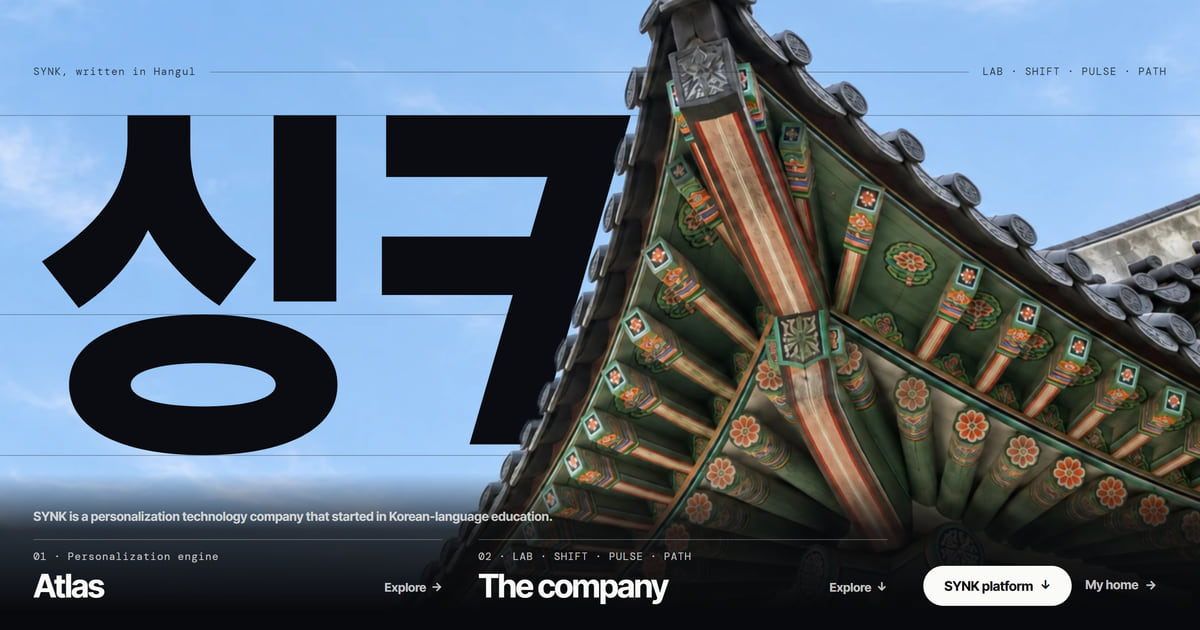
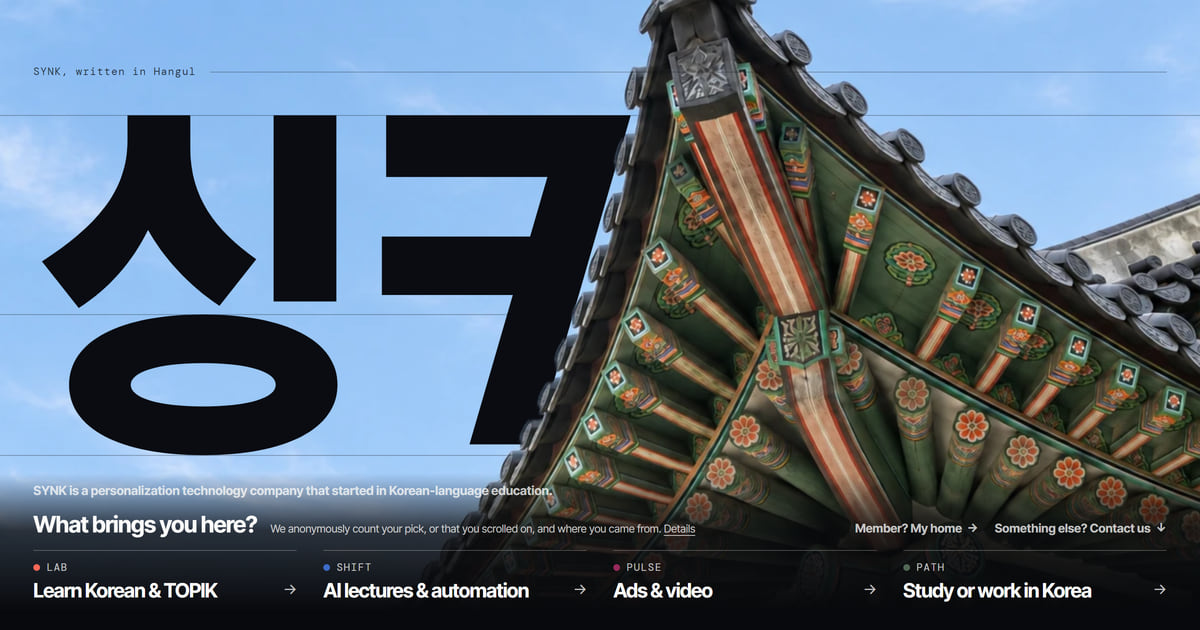
홈 첫 화면 「어떤 일로 오셨어요?」: 처마 입구 아래 두 입구 · 플랫폼 단추 자리에 질문 하나와 네 사업 칸(LAB · SHIFT · PULSE · PATH 쪽) · 작은 줄 둘, 고른 칸(또는 그냥 내려감)을 탭마다 한 번 구글 폼에 익명으로 센다(home-ask.css · home-ask.js — 홈 두 쪽만). 처리방침 기업 홈페이지 절에 방문 통계 · SNS 게시물 링크 기록(한·영), 홈 공유 그림 두 장 다시 구움. 유호님 10-30 「방문자에게 이거 왜 들어왔는지 해서 맞는 회사로 화면을 열어주는 … 통계조사도」 →

Changed region(s): [[0.0308, 0.8143, 0.9558, 0.9651], [0.0308, 0.754, 0.4625, 0.7841], [0.8017, 0.0905, 0.9867, 0.1206]]

diff --git a/privacy/index.html b/privacy/index.html
@@ -205,11 +205,13 @@
 
   <section class="doc" id="website-questions" aria-labelledby="website-privacy-title">
     <h2 class="doc-title" id="website-privacy-title">기업 홈페이지 개인정보 처리 안내</h2>
-    <p class="doc-sub">적용·확인일: 2026년 9월 11일 · 기업 소개와 공개 안내 질문창</p>
+    <p class="doc-sub">적용·확인일: 2026년 9월 11일 · 방문 통계 추가: 2026년 10월 30일 · 기업 소개와 공개 안내 질문창</p>
     <p>이 안내는 SYNK의 기업 소개 홈페이지와 공개 안내 질문창에 적용됩니다. 한국어 이름 체험, Facebook Messenger 상담, 신청서, 학생·보호자용 학습 서비스 등 별도 기능의 정보 처리까지 동일하다는 뜻은 아닙니다.</p>
     <p>공개 안내 질문창은 방문자의 브라우저 안에서 질문과 공개 자료를 대조하여 답변을 표시합니다. 질문이나 대화 내용을 SYNK의 서버 또는 외부 AI 서비스로 전송하는 기능은 없으며, 대화 내용을 쿠키나 브라우저 저장소에 저장하지 않습니다. 화면의 대화는 새로 시작하거나 페이지를 새로고침하면 사라집니다.</p>
     <p>질문창의 입력을 학생 기록에 연결하거나 상담 신청으로 접수하거나 AI 모델 학습에 사용하는 기능은 없습니다. 이름·전화번호·학생 기록·비밀번호 등 개인정보나 민감한 내용은 입력하지 말아 주세요. 이 안내가 입력한 개인정보를 자동으로 가려 준다는 뜻은 아닙니다.</p>
-    <p>기업 소개 홈페이지에는 별도의 방문자 분석 스크립트나 광고 추적 기능을 설치하지 않았습니다. 다만 웹페이지와 파일을 전달하는 접속 정보의 처리는 대화 내용의 저장 여부와 별개입니다. synk.im의 호스팅 제공자인 GitHub의 개인정보 관련 안내를 함께 확인해 주세요.</p>
+    <p>기업 소개 홈페이지에는 광고 회사의 추적 스크립트나 외부 방문자 분석 서비스를 설치하지 않았습니다. SYNK가 직접 세는 기록은 아래 두 가지뿐입니다. 웹페이지와 파일을 전달하는 접속 정보의 처리는 이와 별개이며, synk.im의 호스팅 제공자인 GitHub의 개인정보 관련 안내를 함께 확인해 주세요.</p>
+    <p id="visitor-stats"><strong>홈 첫 화면 방문 통계(2026년 10월 30일부터):</strong> 첫 화면의 「어떤 일로 오셨어요?」에서 칸을 고르거나, 고르지 않고 아래로 내려가면 그 탭에서 한 번만 다음 항목을 SYNK의 Google Forms 기록 양식으로 보냅니다 — 칸을 골랐는지와 고른 칸, 보고 있던 쪽의 언어, 들어온 곳의 종류(직접·검색·인스타그램 같은 분류 이름), 화면 너비로 나눈 기기 종류(휴대폰 또는 컴퓨터·태블릿), 링크에 붙은 캠페인 꼬리표(예: ?from=ig-bio), 화면 버전. Google Forms가 받은 시각을 함께 기록합니다. 보내는 항목에 이름·이메일·IP 주소·쿠키·기기 식별값·전체 주소·이전 사이트 주소는 넣지 않으며, 방문자를 서로 잇는 번호도 만들지 않습니다. 다만 브라우저가 Google Forms로 직접 보내므로, 그 연결에 따르는 접속 정보(IP 주소 등)의 처리는 <a href="https://policies.google.com/privacy">Google 개인정보 안내</a>를 따릅니다. 같은 탭에서 두 번 세지 않도록 그 탭의 저장소(sessionStorage)에 표시 하나를 두고, 탭을 닫으면 사라집니다. 방문자가 무엇을 찾는지 알아 첫 화면과 안내를 고치는 데만 쓰고, 기록은 운영 계정만 봅니다. 브라우저의 전역 개인정보 신호(Global Privacy Control)가 켜져 있으면 보내지 않습니다. 홈 주소에 ?nocount=1을 붙여(synk.im/?nocount=1) 한 번 열면 그 브라우저에서는 보내지 않고(이 설정만 기기 저장소에 남습니다), synk.im/?nocount=0으로 되돌립니다. 사람을 알아볼 수 없는 기록이라 따로 보관 기한을 두지 않으며, 통계에 더 쓰지 않게 되면 지웁니다.</p>
+    <p><strong>SNS 게시물 링크 기록:</strong> SYNK의 SNS 게시물에 붙은 링크 번호(주소의 synk_ref)로 들어온 경우에만, 그 번호와 방문·체험 시작·가입·문의가 있었는지를 SYNK 회사 서버(workspace.synk.im)로 보내 어느 게시물이 방문으로 이어졌는지 셉니다. 이름·이메일·글 내용·전체 주소는 보내지 않고, 링크 번호는 그 탭에서만 기억합니다.</p>
     <p>브라우저의 AI 도우미나 확장 프로그램을 직접 사용하는 경우에는 해당 도구의 정보 처리 기준이 별도로 적용됩니다. 답변의 복사 기능을 누르면 선택한 답변이 기기의 클립보드에 들어갑니다.</p>
     <p>이메일이나 외부 서비스 링크를 선택하면 해당 서비스로 이동합니다. 직접 보낸 이메일, Messenger 메시지 또는 별도 신청서의 내용은 홈페이지 질문창과 다른 경로에서 처리되므로 각 서비스의 안내를 확인해 주세요. LAB 상담·학습 서비스의 고지는 아래에 구분해 두었습니다.</p>
     <p>개인정보 관련 문의는 hello@synk.im으로 보내실 수 있습니다. 이용한 서비스와 문의 내용을 알려주시되 비밀번호나 인증번호는 보내지 말아 주세요. 필요한 정보의 범위는 요청 내용에 따라 달라질 수 있습니다.</p>
@@ -217,9 +219,11 @@
     <details lang="en"><summary>Company website privacy notice · English</summary>
       <p>This notice covers the SYNK company website and its public information guide. Separate services such as the Korean-name experience, Messenger consultation, application forms and student or guardian learning services have their own processing scope.</p>
       <p>The guide compares questions with public material in your browser. It has no function that sends questions or conversations to SYNK servers or external AI services, stores them in cookies or browser storage, connects them to student records, submits consultation requests or uses them to train AI models. On-screen conversations are cleared when you restart the guide or reload the page. Do not enter personal or sensitive information; the guide does not automatically redact it.</p>
-      <p>The company website has no separately installed visitor analytics or advertising trackers. Hosting access information is separate from conversation storage. See the GitHub privacy statement for hosting of synk.im. Browser AI assistants and extensions you choose to use follow their own processing terms. Using Copy places the selected answer on your device clipboard.</p>
+      <p>The company website has no advertising trackers or third-party visitor analytics. SYNK itself counts only the two things below. Hosting access information is separate; see the GitHub privacy statement for hosting of synk.im. Browser AI assistants and extensions you choose to use follow their own processing terms. Using Copy places the selected answer on your device clipboard.</p>
+      <p id="visitor-stats-en"><strong>Home page visit statistics (from 30 October 2026):</strong> when you pick an option under “What brings you here?” on the home page, or scroll past it without picking, the page sends once per tab to SYNK’s Google Forms record: whether you picked and which option, the page language, the kind of referrer (a category name such as direct, search or Instagram), the device type by screen width (phone, or computer and tablet), a campaign tag in the link (such as ?from=ig-bio) and the page version, together with the time Google Forms receives it. The record carries no name, email, IP address, cookie, device identifier, full address or previous site address, and no number links visitors together. Because your browser sends it straight to Google Forms, the connection details that come with that request (such as your IP address) are handled under the <a href="https://policies.google.com/privacy">Google privacy policy</a>. A mark in that tab’s sessionStorage prevents double counting and disappears when the tab closes. The records are used only to improve the home page and guide, and only the operations account sees them. Nothing is sent when Global Privacy Control is on. Open the home page once as synk.im/?nocount=1 (or synk.im/en/?nocount=1) to stop counting in that browser (only this setting is kept in local storage), and with ?nocount=0 on the same address to undo it. The records do not identify people, so there is no fixed retention period; we delete them once we no longer use them for statistics.</p>
+      <p><strong>SNS post links:</strong> only when you arrive through a link number from a SYNK social media post (synk_ref in the address), the page sends that number and whether a visit, trial start, sign-up or inquiry followed to SYNK’s company server (workspace.synk.im), to count which posts led to visits. No name, email, page text or full address is sent, and the link number is remembered only in that tab.</p>
       <p>Emails, Messenger messages, forms and other linked services are processed separately from this guide. For privacy enquiries, contact hello@synk.im and identify the relevant service without sending passwords or verification codes. The LAB service policy is set out below.</p>
-      <p>Effective and reviewed: 11 September 2026. Changes to the guide's processing or connected features will be reflected in this notice.</p>
+      <p>Effective and reviewed: 11 September 2026. Visit statistics added: 30 October 2026. Changes to the guide's processing or connected features will be reflected in this notice.</p>
     </details>
     <p class="doc-sub">질문창의 정보 처리 방식이나 연결 기능이 바뀌면 이 안내를 갱신합니다.</p>
   </section>

diff --git a/assets/v10/home-ask.js b/assets/v10/home-ask.js
@@ -1,0 +1,154 @@
+// 홈 첫 화면 「어떤 일로 오셨어요?」 — 방문자가 고른 칸을 익명으로 센다(2026-10-30, 유호님 「방문자가 왜 왔는지 통계조사도」).
+// 받는 곳: SYNK 운영 계정의 구글 폼 「synk.im 방문 목적(익명)」. 폼의 응답 탭 요약이 곧 통계다(질문마다 원그래프).
+// 한 탭에서 한 번만 센다 — 처음 누른 칸(고름) 또는 고르지 않고 입구를 지나 내려간 것(지나침) 가운데 먼저 일어난 하나. 분모 = 고름 + 지나침.
+//   (보기만 하고 떠난 것은 세지 않는다 — 사람이 보지 않는 미리 불러오기 · 검색 로봇과 가려낼 수 없어서다.)
+// 보내는 것: 고름/지나침 · 고른 칸 · 쪽 언어(한국어 쪽/영어 쪽) · 들어온 곳(분류 이름만) · 기기(화면 넓이로 둘 중 하나) · 링크 꼬리표(?from=) · 판.
+//   구글 폼이 받은 시각을 더한다. 이 목록은 처리방침 「홈페이지 방문 통계」 절과 같아야 한다.
+// 보내지 않는 것: 이름 · 이메일 · 쿠키 · 기기 식별값 · 전체 주소 · referrer 원문 · 사람을 잇는 번호. 기기에는 이 탭의 「이미 셈」 표시 하나만 둔다(탭을 닫으면 사라진다).
+// 세지 않는 때: synk.im이 아님(미리 보기) · 자동화 브라우저 · 로봇 · 전역 개인정보 신호(GPC) · 미리 불러오기 · ?from=self|qa · 이 브라우저에서 끔(?nocount=1, 되돌리기 ?nocount=0).
+// 같은 방식의 선례: LAB TOPIK 4급 관심 등록 쪽(구글 폼 formResponse에 no-cors로 바로 보낸다 — 응답은 읽지 못한다).
+// 폼의 질문 · 보기 글을 고치면 여기 FORM · 보기 글을 같이 고친다(보기 글이 한 글자라도 다르면 폼이 그 응답을 조용히 버린다). 폼에서 바꾸면 안 되는 것은 site-v10/README.md 「방문 목적 입구」.
+
+// 폼 편집 주소 · 설정 · 바꾸면 안 되는 것은 site-v10/README.md 「방문 목적 입구」.
+export const FORM = {
+  action: 'https://docs.google.com/forms/d/e/1FAIpQLScYJEDpLqq6llPtHH-IaB40ZoLug0jVfroz_D2YcIm_yXT3Aw/formResponse',
+  kind: 'entry.1058128059', pick: 'entry.1626241903', lang: 'entry.1872538132', source: 'entry.1015153301', device: 'entry.168759306', from: 'entry.654413425', version: 'entry.562044090',
+};
+export const VERSION = 'gate-v1';
+
+// 폼 보기 글(한국어 — 통계를 읽는 사람은 유호님이다). 영어 쪽도 같은 글로 보낸다. 화면의 칸 이름을 다듬어도 이 글은 그대로 둔다.
+export const KINDS = { pick: '칸을 고름', pass: '고르지 않고 내려감' };
+export const PICKS = {
+  lab: 'LAB · 한국어', shift: 'SHIFT · AI 강의·자동화', pulse: 'PULSE · 광고·영상', path: 'PATH · 유학·취업',
+  app: '내 홈(회원)', other: '문의',
+};
+export const LANGS = { ko: '한국어 쪽', en: '영어 쪽' };
+export const SOURCES = {
+  direct: '직접', search: '검색', instagram: '인스타그램', youtube: '유튜브', tiktok: '틱톡', threads: '스레드',
+  facebook: '페이스북', blog: '블로그', other: '다른 사이트', internal: 'SYNK 안',
+};
+export const DEVICES = { phone: '휴대폰', wide: '컴퓨터·태블릿' };
+
+const HOSTS = [
+  [/(^|\.)synk\.im$/, 'internal'],
+  [/(^|\.)instagram\.com$/, 'instagram'],
+  [/(^|\.)(youtube\.com|youtu\.be)$/, 'youtube'],
+  [/(^|\.)tiktok\.com$/, 'tiktok'],
+  [/(^|\.)threads\.(net|com)$/, 'threads'],
+  [/(^|\.)(facebook\.com|fb\.me|fb\.com)$/, 'facebook'],
+  [/(^|\.)(blog\.naver\.com|tistory\.com|brunch\.co\.kr|medium\.com)$/, 'blog'],
+  [/(^|\.)(google\.[a-z.]+|bing\.com|search\.naver\.com|daum\.net|search\.yahoo\.[a-z.]+|duckduckgo\.com|baidu\.com|yandex\.[a-z.]+|ecosia\.org|search\.brave\.com)$/, 'search'],
+];
+// 꼬리표 이름 → 들어온 곳(링크에 ?from=ig-… 처럼 붙인 경우 referrer보다 앞선다 — 앱 안 브라우저는 referrer를 자주 비운다)
+const TAGS = [[/^(ig|insta)/, 'instagram'], [/^(yt|youtube)/, 'youtube'], [/^(tt|tiktok)/, 'tiktok'], [/^(th|threads)/, 'threads'], [/^(fb|facebook)/, 'facebook'], [/^(blog|tistory|naver)/, 'blog']];
+const SELF_TAGS = /^(self|qa)$/;
+const BOTS = /bot|crawl|spider|slurp|preview|facebookexternalhit|headless|lighthouse|pagespeed/i;
+
+/** ?from= 꼬리표(lab-topik4와 같은 꼴: 영소문자 · 숫자 · 하이픈 40자). 아니면 빈 글. utm_source도 같은 규칙으로 받는다. 꼬리표는 캠페인 단위로만 쓴다(한 사람에게만 준 링크에 붙이지 않는다). */
+export function fromTag(href) {
+  try {
+    const q = new URL(href).searchParams;
+    const v = String(q.get('from') || q.get('utm_source') || '').toLowerCase();
+    return /^[a-z0-9][a-z0-9-]{0,39}$/.test(v) ? v : '';
+  } catch { return ''; }
+}
+
+/** 들어온 곳 분류. referrer는 호스트 이름만 보고 버린다. */
+export function sourceOf(referrer, href) {
+  const tag = fromTag(href);
+  for (const [re, key] of TAGS) if (tag && re.test(tag)) return key;
+  if (!referrer) return 'direct';
+  let host = '';
+  try { host = new URL(referrer).hostname.toLowerCase(); } catch { return 'other'; }
+  for (const [re, key] of HOSTS) if (re.test(host)) return key;
+  return 'other';
+}
+
+export const deviceOf = width => (width <= 700 ? 'phone' : 'wide');
+
+/** 폼에 보낼 값. 허용 목록 밖의 값이면 null(보내지 않는다). */
+export function payload(kind, pick, ctx, form = FORM) {
+  if (!KINDS[kind] || (kind === 'pick') !== Boolean(PICKS[pick])) return null;
+  if (!LANGS[ctx.lang] || !SOURCES[ctx.source] || !DEVICES[ctx.device]) return null;
+  const p = new URLSearchParams();
+  p.set(form.kind, KINDS[kind]);
+  if (kind === 'pick') p.set(form.pick, PICKS[pick]);
+  p.set(form.lang, LANGS[ctx.lang]);
+  p.set(form.source, SOURCES[ctx.source]);
+  p.set(form.device, DEVICES[ctx.device]);
+  if (ctx.from) p.set(form.from, ctx.from);
+  p.set(form.version, ctx.version || VERSION);
+  return p;
+}
+
+const OFF_KEY = 'synk.count.off';
+const DONE_KEY = 'synk.visit.counted';
+
+/** 이 방문을 세도 되는가(위 「세지 않는 때」). ?nocount=1 · 0은 이 브라우저의 끄기 표시를 남기거나 지운다. */
+export function counting(win, doc = {}) {
+  try {
+    const url = new URL(win.location.href);
+    const off = url.searchParams.get('nocount');
+    if (off === '1') win.localStorage.setItem(OFF_KEY, '1');
+    else if (off === '0') win.localStorage.removeItem(OFF_KEY);
+    if (url.hostname !== 'synk.im') return false;
+    const nav = win.navigator || {};
+    if (nav.webdriver || nav.globalPrivacyControl || BOTS.test(nav.userAgent || '')) return false;
+    if (doc.prerendering) return false;
+    if (SELF_TAGS.test(fromTag(url.href))) return false;
+    return win.localStorage.getItem(OFF_KEY) !== '1';
+  } catch { return false; }
+}
+
+export function createCounter({ win = globalThis.window, doc = globalThis.document, fetcher = (...a) => globalThis.fetch(...a), form = FORM } = {}) {
+  const on = counting(win, doc);
+  const ctx = {
+    lang: doc.documentElement.lang === 'en' ? 'en' : 'ko',
+    source: sourceOf(doc.referrer, win.location.href),
+    device: deviceOf(win.innerWidth),
+    from: fromTag(win.location.href),
+  };
+  let done = false;
+  try { done = win.sessionStorage.getItem(DONE_KEY) === '1'; } catch {}
+  /** 고름 또는 지나침을 한 탭에 한 번만 보낸다. 보냈으면 true. */
+  function send(kind, pick) {
+    if (!on || done) return false;
+    if (doc.visibilityState && doc.visibilityState !== 'visible') return false;
+    const body = payload(kind, pick, ctx, form);
+    if (!body) return false;
+    done = true;
+    try { win.sessionStorage.setItem(DONE_KEY, '1'); } catch {}
+    try {
+      fetcher(form.action, { method: 'POST', mode: 'no-cors', credentials: 'omit', referrerPolicy: 'no-referrer', keepalive: true, body }).catch(() => {});
+    } catch {}
+    return true;
+  }
+  return { send, ctx, on };
+}
+
+/** 화면에 붙인다: 칸을 누르면 고름, 입구를 본 뒤 고르지 않고 지나 내려가면 지나침.
+ *  /#platform · /#contact처럼 입구 아래 구역 주소로 바로 들어온 방문은 입구를 보지 않았으니 지나침으로 세지 않는다
+ *  (관찰을 붙이자마자 오는 첫 알림이 「입구가 이미 위로 벗어남」이다). */
+export function mount({ win = globalThis.window, doc = globalThis.document, counter = createCounter({ win, doc }) } = {}) {
+  const gate = doc.querySelector('[data-visit]');
+  if (!gate || !counter.on) return counter;
+  const onPick = e => { const a = e.target.closest?.('a[data-pick]'); if (a) counter.send('pick', a.dataset.pick); };
+  gate.addEventListener('click', onPick);
+  gate.addEventListener('auxclick', e => { if (e.button === 1) onPick(e); });
+  if ('IntersectionObserver' in win) {
+    let seen = false;
+    new win.IntersectionObserver(entries => {
+      for (const en of entries) {
+        if (en.isIntersecting) seen = true;
+        else if (seen && en.boundingClientRect.bottom < 0) counter.send('pass');
+      }
+    }).observe(gate);
+  }
+  return counter;
+}
+
+// 주소창 예측으로 미리 불러온 쪽은 사람이 실제로 열 때(prerenderingchange) 붙인다 — 미리 불러오는 동안 세지 않는 판정이 그대로 굳지 않게.
+if (typeof document !== 'undefined' && typeof window !== 'undefined') {
+  if (document.prerendering) document.addEventListener('prerenderingchange', () => mount(), { once: true });
+  else mount();
+}

diff --git a/en/index.html b/en/index.html
@@ -10,7 +10,7 @@
 <link rel="canonical" href="https://synk.im/en/">
 <link rel="alternate" hreflang="ko" href="https://synk.im/"><link rel="alternate" hreflang="en" href="https://synk.im/en/"><link rel="alternate" hreflang="mn" href="https://synk.im/mn/"><link rel="alternate" hreflang="x-default" href="https://synk.im/">
 <meta property="og:type" content="website"><meta property="og:url" content="https://synk.im/en/"><meta property="og:title" content="SYNK — An engine that fits you better the more you use it"><meta property="og:description" content="SYNK builds Atlas, a personalization engine, and the SYNK platform, where one SYNK ID carries you across SYNK apps. We started in Korean-language education and also use the same engine for business services and advertising videos.">
-<meta property="og:image" content="https://synk.im/assets/v10/og/home-en.jpg?v=9acb75bcf659"><meta property="og:image:width" content="1200"><meta property="og:image:height" content="630"><meta property="og:image:alt" content="The SYNK home page: the word SYNK in large Korean letters beneath the eaves of a hanok roof, against a daytime sky"><meta name="twitter:card" content="summary_large_image">
+<meta property="og:image" content="https://synk.im/assets/v10/og/home-en.jpg?v=440a44bf4713"><meta property="og:image:width" content="1200"><meta property="og:image:height" content="630"><meta property="og:image:alt" content="The SYNK home page: the word SYNK in large Korean letters beneath the eaves of a hanok roof, against a daytime sky"><meta name="twitter:card" content="summary_large_image">
 <link rel="icon" type="image/png" sizes="16x16" href="/assets/favicon-synk-20260919-16.png"><link rel="icon" type="image/png" sizes="32x32" href="/assets/favicon-synk-20260919-32.png"><link rel="icon" type="image/png" sizes="48x48" href="/assets/favicon-synk-20260919-48.png">
 <link rel="preload" href="/assets/v10/suit-v10.woff2" as="font" type="font/woff2" crossorigin>
 <link rel="stylesheet" href="/assets/v10/site.css?v=bf743bfce9da">
@@ -19,6 +19,8 @@
 <script>(()=>{const t=new Date(),h=t.getHours()+t.getMinutes()/60,s=h>=6&&h<17?'day':(h>=17&&h<19.5)||(h>=5&&h<6)?'sunset':'night',d=document.documentElement;d.dataset.sky=s;for(const[m,f]of[['(min-width:701px) and (min-aspect-ratio:4/5)',''],['(max-width:700px),(max-aspect-ratio:4/5)','-portrait']]){const l=document.createElement('link');l.rel='preload';l.as='image';l.href='/assets/korean-eaves-'+s+f+'-20260927.webp';l.media=m;document.head.appendChild(l)}})()</script>
 
 <script type="module" src="/assets/v10/site.js?v=cb64453758c6"></script>
+<link rel="stylesheet" href="/assets/v10/home-ask.css?v=d72e286e5532">
+<script type="module" src="/assets/v10/home-ask.js?v=79ab3d30a939"></script>
 <script type="module" src="/social-conversion.js?v=07c3d1bb5c11"></script>
 </head>
 <body data-site="synk" data-page="home">
@@ -37,9 +39,11 @@
 </div>
 <div class="gate-roof" aria-hidden="true"></div>
 <div class="gate-top" aria-hidden="true"><span>SYNK, written in Hangul</span><span class="rule"></span><span class="brands">LAB · SHIFT · PULSE · PATH</span></div>
-<nav class="gate-doors" aria-label="SYNK entrance"><p class="gate-kicker"><span>SYNK is a personalization technology company that started in Korean-language education.</span></p>
-<a class="door" href="/en/atlas/"><small>01 · Personalization engine</small><strong>Atlas</strong><span>Explore<b class="arr" aria-hidden="true">→</b></span></a><a class="door" href="#top"><small>02 · LAB · SHIFT · PULSE · PATH</small><strong>The company</strong><span>Explore<b class="arr" aria-hidden="true">↓</b></span></a>
-<div class="gate-acts"><a class="btn btn-light" href="#platform">SYNK platform <span class="arr" aria-hidden="true">↓</span></a><a class="gate-home" href="/account/platform.html#home">My home <span class="arr" aria-hidden="true">→</span></a></div></nav>
+<nav class="gate-doors visit" aria-labelledby="visit-q" data-visit><p class="gate-kicker"><span>SYNK is a personalization technology company that started in Korean-language education.</span></p>
+<p class="visit-q" id="visit-q">What brings you here?</p>
+<ul class="visit-doors"><li><a class="visit-door" href="/en/lab/" data-pick="lab"><small><i class="dot dot-lab" aria-hidden="true"></i>LAB</small><strong>Learn Korean &amp; TOPIK</strong><b class="arr" aria-hidden="true">→</b></a></li><li><a class="visit-door" href="/en/shift/" data-pick="shift"><small><i class="dot dot-shift" aria-hidden="true"></i>SHIFT</small><strong>AI lectures &amp; automation</strong><b class="arr" aria-hidden="true">→</b></a></li><li><a class="visit-door" href="/en/pulse/" data-pick="pulse"><small><i class="dot dot-pulse" aria-hidden="true"></i>PULSE</small><strong>Ads &amp; video</strong><b class="arr" aria-hidden="true">→</b></a></li><li><a class="visit-door" href="/en/path/" data-pick="path"><small><i class="dot dot-path" aria-hidden="true"></i>PATH</small><strong>Study or work in Korea</strong><b class="arr" aria-hidden="true">→</b></a></li></ul>
+<div class="visit-more"><a href="/account/platform.html#home" data-pick="app">Member? My home<span class="arr" aria-hidden="true">→</span></a><a href="#contact" data-pick="other">Something else? Contact us<span class="arr" aria-hidden="true">↓</span></a></div>
+<p class="visit-note">We anonymously count your pick, or that you scrolled on, and where you came from. <a href="/privacy/#visitor-stats-en">Details</a></p></nav>
 </section><section class="cover" id="top"><span id="hero-introduction" class="sr-only" aria-hidden="true"></span><div class="wrap">
 <div class="cover-top"><p class="label"><i class="dot" aria-hidden="true"></i><span class="en">SYNK</span><span>Personalization engine</span></p><span class="cover-rule" aria-hidden="true"></span><p class="mono cover-brands">LAB · SHIFT · PULSE · PATH</p></div>
 <div class="cover-main"><h1 class="cover-title"><span>An engine that fits you</span> <span>better the more you use it</span></h1>

diff --git a/index.html b/index.html
@@ -11,7 +11,7 @@
 <link rel="canonical" href="https://synk.im/">
 <link rel="alternate" hreflang="ko" href="https://synk.im/"><link rel="alternate" hreflang="en" href="https://synk.im/en/"><link rel="alternate" hreflang="mn" href="https://synk.im/mn/"><link rel="alternate" hreflang="x-default" href="https://synk.im/">
 <meta property="og:type" content="website"><meta property="og:url" content="https://synk.im/"><meta property="og:title" content="SYNK — 쓸수록 나에게 맞춰지는 엔진을 만듭니다"><meta property="og:description" content="SYNK는 개인화 엔진 아틀라스와, SYNK ID 하나로 SYNK의 앱을 이어 쓰는 SYNK 플랫폼을 만드는 회사입니다. 한국어 교육에서 시작해 기업 서비스와 광고 영상에도 같은 엔진을 씁니다.">
-<meta property="og:image" content="https://synk.im/assets/v10/og/home-ko.jpg?v=9620a24e9772"><meta property="og:image:width" content="1200"><meta property="og:image:height" content="630"><meta property="og:image:alt" content="낮 하늘 아래 한옥 처마와 큰 글자 「싱ㅋ」 — SYNK 홈페이지 첫 화면"><meta name="twitter:card" content="summary_large_image">
+<meta property="og:image" content="https://synk.im/assets/v10/og/home-ko.jpg?v=e5b24ec3107f"><meta property="og:image:width" content="1200"><meta property="og:image:height" content="630"><meta property="og:image:alt" content="낮 하늘 아래 한옥 처마와 큰 글자 「싱ㅋ」 — SYNK 홈페이지 첫 화면"><meta name="twitter:card" content="summary_large_image">
 <link rel="icon" type="image/png" sizes="16x16" href="/assets/favicon-synk-20260919-16.png"><link rel="icon" type="image/png" sizes="32x32" href="/assets/favicon-synk-20260919-32.png"><link rel="icon" type="image/png" sizes="48x48" href="/assets/favicon-synk-20260919-48.png">
 <link rel="preload" href="/assets/v10/suit-v10.woff2" as="font" type="font/woff2" crossorigin>
 <link rel="stylesheet" href="/assets/v10/site.css?v=bf743bfce9da">
@@ -20,6 +20,8 @@
 <script>(()=>{const t=new Date(),h=t.getHours()+t.getMinutes()/60,s=h>=6&&h<17?'day':(h>=17&&h<19.5)||(h>=5&&h<6)?'sunset':'night',d=document.documentElement;d.dataset.sky=s;for(const[m,f]of[['(min-width:701px) and (min-aspect-ratio:4/5)',''],['(max-width:700px),(max-aspect-ratio:4/5)','-portrait']]){const l=document.createElement('link');l.rel='preload';l.as='image';l.href='/assets/korean-eaves-'+s+f+'-20260927.webp';l.media=m;document.head.appendChild(l)}})()</script>
 
 <script type="module" src="/assets/v10/site.js?v=cb64453758c6"></script>
+<link rel="stylesheet" href="/assets/v10/home-ask.css?v=d72e286e5532">
+<script type="module" src="/assets/v10/home-ask.js?v=79ab3d30a939"></script>
 <script type="module" src="/social-conversion.js?v=07c3d1bb5c11"></script>
 </head>
 <body data-site="synk" data-page="home">
@@ -38,9 +40,11 @@
 </div>
 <div class="gate-roof" aria-hidden="true"></div>
 <div class="gate-top" aria-hidden="true"><span><span class="ko">싱ㅋ</span> = SYNK</span><span class="rule"></span><span class="brands">LAB · SHIFT · PULSE · PATH</span></div>
-<nav class="gate-doors" aria-label="SYNK 입구"><p class="gate-kicker"><span>SYNK는 한국어 교육에서 시작한 개인화 기술 회사입니다.</span></p>
-<a class="door" href="/atlas/"><small>01 · <span class="ko">초개인화 엔진</span></small><strong>아틀라스</strong><span>살펴보기<b class="arr" aria-hidden="true">→</b></span></a><a class="door" href="#top"><small>02 · LAB · SHIFT · PULSE · PATH</small><strong>회사 소개</strong><span>살펴보기<b class="arr" aria-hidden="true">↓</b></span></a>
-<div class="gate-acts"><a class="btn btn-light" href="#platform">SYNK 플랫폼 <span class="arr" aria-hidden="true">↓</span></a><a class="gate-home" href="/account/platform.html#home">내 홈 <span class="arr" aria-hidden="true">→</span></a></div></nav>
+<nav class="gate-doors visit" aria-labelledby="visit-q" data-visit><p class="gate-kicker"><span>SYNK는 한국어 교육에서 시작한 개인화 기술 회사입니다.</span></p>
+<p class="visit-q" id="visit-q">어떤 일로 오셨어요?</p>
+<ul class="visit-doors"><li><a class="visit-door" href="/lab/" data-pick="lab"><small><i class="dot dot-lab" aria-hidden="true"></i>LAB</small><strong>한국어·TOPIK 공부</strong><b class="arr" aria-hidden="true">→</b></a></li><li><a class="visit-door" href="/shift/" data-pick="shift"><small><i class="dot dot-shift" aria-hidden="true"></i>SHIFT</small><strong>AI 특강·업무 자동화</strong><b class="arr" aria-hidden="true">→</b></a></li><li><a class="visit-door" href="/pulse/" data-pick="pulse"><small><i class="dot dot-pulse" aria-hidden="true"></i>PULSE</small><strong>광고·영상 제작</strong><b class="arr" aria-hidden="true">→</b></a></li><li><a class="visit-door" href="/path/" data-pick="path"><small><i class="dot dot-path" aria-hidden="true"></i>PATH</small><strong>한국 유학·취업 준비</strong><b class="arr" aria-hidden="true">→</b></a></li></ul>
+<div class="visit-more"><a href="/account/platform.html#home" data-pick="app">회원이세요? 내 홈<span class="arr" aria-hidden="true">→</span></a><a href="#contact" data-pick="other">다른 일이라면 문의<span class="arr" aria-hidden="true">↓</span></a></div>
+<p class="visit-note">고른 칸이나 그냥 내려간 것, 들어온 경로를 익명으로 셉니다. <a href="/privacy/#visitor-stats">자세히</a></p></nav>
 </section><section class="cover" id="top"><span id="hero-introduction" class="sr-only" aria-hidden="true"></span><div class="wrap">
 <div class="cover-top"><p class="label"><i class="dot" aria-hidden="true"></i><span class="en">SYNK</span><span>개인화 엔진</span></p><span class="cover-rule" aria-hidden="true"></span><p class="mono cover-brands">LAB · SHIFT · PULSE · PATH</p></div>
 <div class="cover-main"><h1 class="cover-title"><span>쓸수록 나에게 맞춰지는</span> <span>엔진을 만듭니다</span></h1>

diff --git a/assets/v10/home-ask.css b/assets/v10/home-ask.css
@@ -1,0 +1,49 @@
+/* ---------- 입구 · 방문 목적(2026-10-30) ----------
+   홈 두 쪽(/ · /en/)만 싣는다. 처마 입구의 위쪽(하늘 · 처마 밑 싱ㅋ · 견본선 · 위 정보 줄)은 site.css 그대로이고(qa/v11-site.test.mjs의 sha256 잠금),
+   이 파일은 그 아래쪽 문 묶음(.gate-doors)만 맡는다 — 두 입구(아틀라스 · 회사 소개)와 SYNK 플랫폼 단추 자리를 「어떤 일로 오셨어요?」와
+   하러 온 일 넷, 작은 줄 둘로 바꾼다. 싱ㅋ 크기(--mark-w · --mark-top)와 처마 맞춤 식은 덮어쓰지 않는다.
+   넓은 화면: 회사 한 줄 / 질문 · 익명 안내 ……… 작은 줄 / 큰 칸 넷(한 줄). 높이는 두 입구 때(121px)보다 약 40px 크다 —
+   1280×720 · 1366×768에서도 싱ㅋ 아래끝과 15px 넘게 떨어진다(잰 값은 site-v10/README.md 「방문 목적 입구」).
+   좁은 · 세로 화면: 질문 → 큰 칸 넷(한 줄 48px) → 작은 줄 → 안내. 높이 700px 이하 휴대폰은 회사 한 줄을 접어 360×640에서도 네 칸이 첫 화면에 든다. */
+.gate-doors.visit{display:grid;grid-template-columns:auto minmax(0,1fr) auto;grid-template-areas:"kick kick kick" "q note more" "doors doors doors";column-gap:16px;align-items:baseline}
+.visit .gate-kicker{grid-area:kick;margin:0 0 10px}
+.visit-q{grid-area:q;margin:0 0 14px;font-size:clamp(22px,1.9vw,28px);font-weight:740;letter-spacing:-.025em;line-height:1.2;color:var(--g-ink)}
+.visit-note{grid-area:note;margin:0;font-size:13px;font-weight:500;line-height:1.4;color:var(--g-ink-2)}
+.visit-note a{color:inherit;text-underline-offset:3px}
+.visit-note a:hover{color:var(--g-ink)}
+.visit-doors{grid-area:doors;list-style:none;margin:0;padding:0;display:grid;grid-template-columns:repeat(4,minmax(0,1fr));column-gap:clamp(16px,2.2vw,32px)}
+.visit-door{display:grid;grid-template-columns:minmax(0,1fr) auto;align-items:end;gap:8px 12px;padding:14px 0 6px;border-top:1px solid var(--g-line);text-decoration:none;color:var(--g-ink)}
+.visit-door small{grid-column:1/-1;display:flex;align-items:center;gap:8px;font:400 12.5px/1 var(--mono);letter-spacing:.08em;color:var(--g-ink-2)}
+.visit-door strong{font-size:clamp(22px,2.1vw,32px);font-weight:760;letter-spacing:-.035em;line-height:1.15}
+/* 영어 칸 이름은 한국어보다 길다(「AI lectures & automation」) — 1366×768에서 두 줄로 접혀 싱ㅋ에 닿던 것을 한 줄로 */
+html[lang="en"] .visit-door strong{font-size:clamp(20px,1.65vw,28px)}
+.visit-door .arr{font:400 18px/1 var(--mono);color:var(--g-ink-2);padding-bottom:7px;transition:transform .2s var(--ease)}
+.visit-door:hover small,.visit-door:hover .arr{color:var(--g-ink)}
+.visit-door:hover .arr{transform:translateX(3px)}
+.visit-more{grid-area:more;display:flex;flex-wrap:wrap;justify-content:flex-end;gap:0 20px}
+.visit-more a{display:inline-flex;align-items:center;gap:6px;min-height:44px;color:var(--g-ink-2);font-size:14.5px;font-weight:650;text-decoration:none;white-space:nowrap}
+.visit-more a:hover{color:var(--g-ink)}
+.visit-more .arr{font-family:var(--mono)}
+/* 위 정보 줄 오른쪽 사업 이름 넷은 네 칸과 같은 말이라 홈에서 숨긴다. 막대의 사업 알약은 입구가 보이는 동안(막대가 어두운 유리일 때)만 숨긴다 —
+   입구를 지나면 네 사업으로 가는 길이 막대에 다시 생긴다(같은 꼴의 선례 build.mjs PATH_EN_CSS). */
+body[data-page="home"] .gate-top .brands,body[data-page="home"] .bar.on-dark .bar-brands,body[data-page="home"] .bar.on-dark .bar-brands+.bar-sep{display:none}
+@media (prefers-reduced-motion:reduce){.visit-door .arr{transition:none}}
+/* 1100px 이하 가로 창: 질문 · 안내 · 작은 줄 셋이 한 줄에 들면 가운데 안내 칸이 눌려 작은 줄과 겹친다 — 안내를 질문 아래 줄로 */
+@media (max-width:1100px){
+  .gate-doors.visit{grid-template-columns:minmax(0,1fr) auto;grid-template-areas:"kick kick" "q more" "note note" "doors doors"}
+  .visit-q{margin-bottom:4px}
+  .visit-note{margin:0 0 12px}
+}
+@media (max-width:700px),(max-aspect-ratio:4/5){
+  .gate-doors.visit{grid-template-columns:minmax(0,1fr);grid-template-areas:"kick" "q" "doors" "more" "note";align-items:start}
+  .visit-q{font-size:24px;margin-bottom:12px}
+  .visit-doors{grid-template-columns:minmax(0,1fr)}
+  .visit-doors li:last-child .visit-door{border-bottom:1px solid var(--g-line)}
+  .visit-door{grid-template-columns:64px minmax(0,1fr) auto;align-items:center;gap:0 10px;padding:0;min-height:48px}
+  .visit-door small{grid-column:auto}
+  .visit-door strong,html[lang="en"] .visit-door strong{font-size:20px}
+  .visit-door .arr{padding-bottom:0}
+  .visit-more{justify-content:flex-start;gap:0 18px;margin-top:6px}
+  .visit-note{margin-top:2px}
+}
+@media (max-width:700px) and (max-height:700px){.visit .gate-kicker{display:none}}

diff --git a/mn/index.html b/mn/index.html
@@ -10,7 +10,7 @@
 <link rel="canonical" href="https://synk.im/mn/">
 <link rel="alternate" hreflang="ko" href="https://synk.im/"><link rel="alternate" hreflang="en" href="https://synk.im/en/"><link rel="alternate" hreflang="mn" href="https://synk.im/mn/"><link rel="alternate" hreflang="x-default" href="https://synk.im/">
 <meta property="og:type" content="website"><meta property="og:url" content="https://synk.im/mn/"><meta property="og:title" content="SYNK-ийн танилцуулга — TOPIK бэлтгэл, солонгос хэлний сургалт"><meta property="og:description" content="SYNK нь солонгос хэлний сургалтаас үүсэлтэй, хүн бүрд тохирсон сургалтын технологи хөгжүүлдэг компани юм. SYNK WORLD дахь үнэгүй TOPIK дасгал, TOPIK 4-р түвшний онлайн анги, Улаанбаатарт сургалтын төв нээх зорилгоо танилцуулж байна.">
-<meta property="og:image" content="https://synk.im/assets/v10/og/home-en.jpg?v=9acb75bcf659"><meta property="og:image:width" content="1200"><meta property="og:image:height" content="630"><meta property="og:image:alt" content="SYNK-ийн танилцуулга"><meta name="twitter:card" content="summary_large_image">
+<meta property="og:image" content="https://synk.im/assets/v10/og/home-en.jpg?v=440a44bf4713"><meta property="og:image:width" content="1200"><meta property="og:image:height" content="630"><meta property="og:image:alt" content="SYNK-ийн танилцуулга"><meta name="twitter:card" content="summary_large_image">
 <link rel="icon" type="image/png" sizes="16x16" href="/assets/favicon-synk-20260919-16.png"><link rel="icon" type="image/png" sizes="32x32" href="/assets/favicon-synk-20260919-32.png"><link rel="icon" type="image/png" sizes="48x48" href="/assets/favicon-synk-20260919-48.png">
 <link rel="preload" href="/assets/v10/inter-tight-cyrillic.woff2" as="font" type="font/woff2" crossorigin>
 <link rel="stylesheet" href="/assets/v10/site.css?v=bf743bfce9da">
